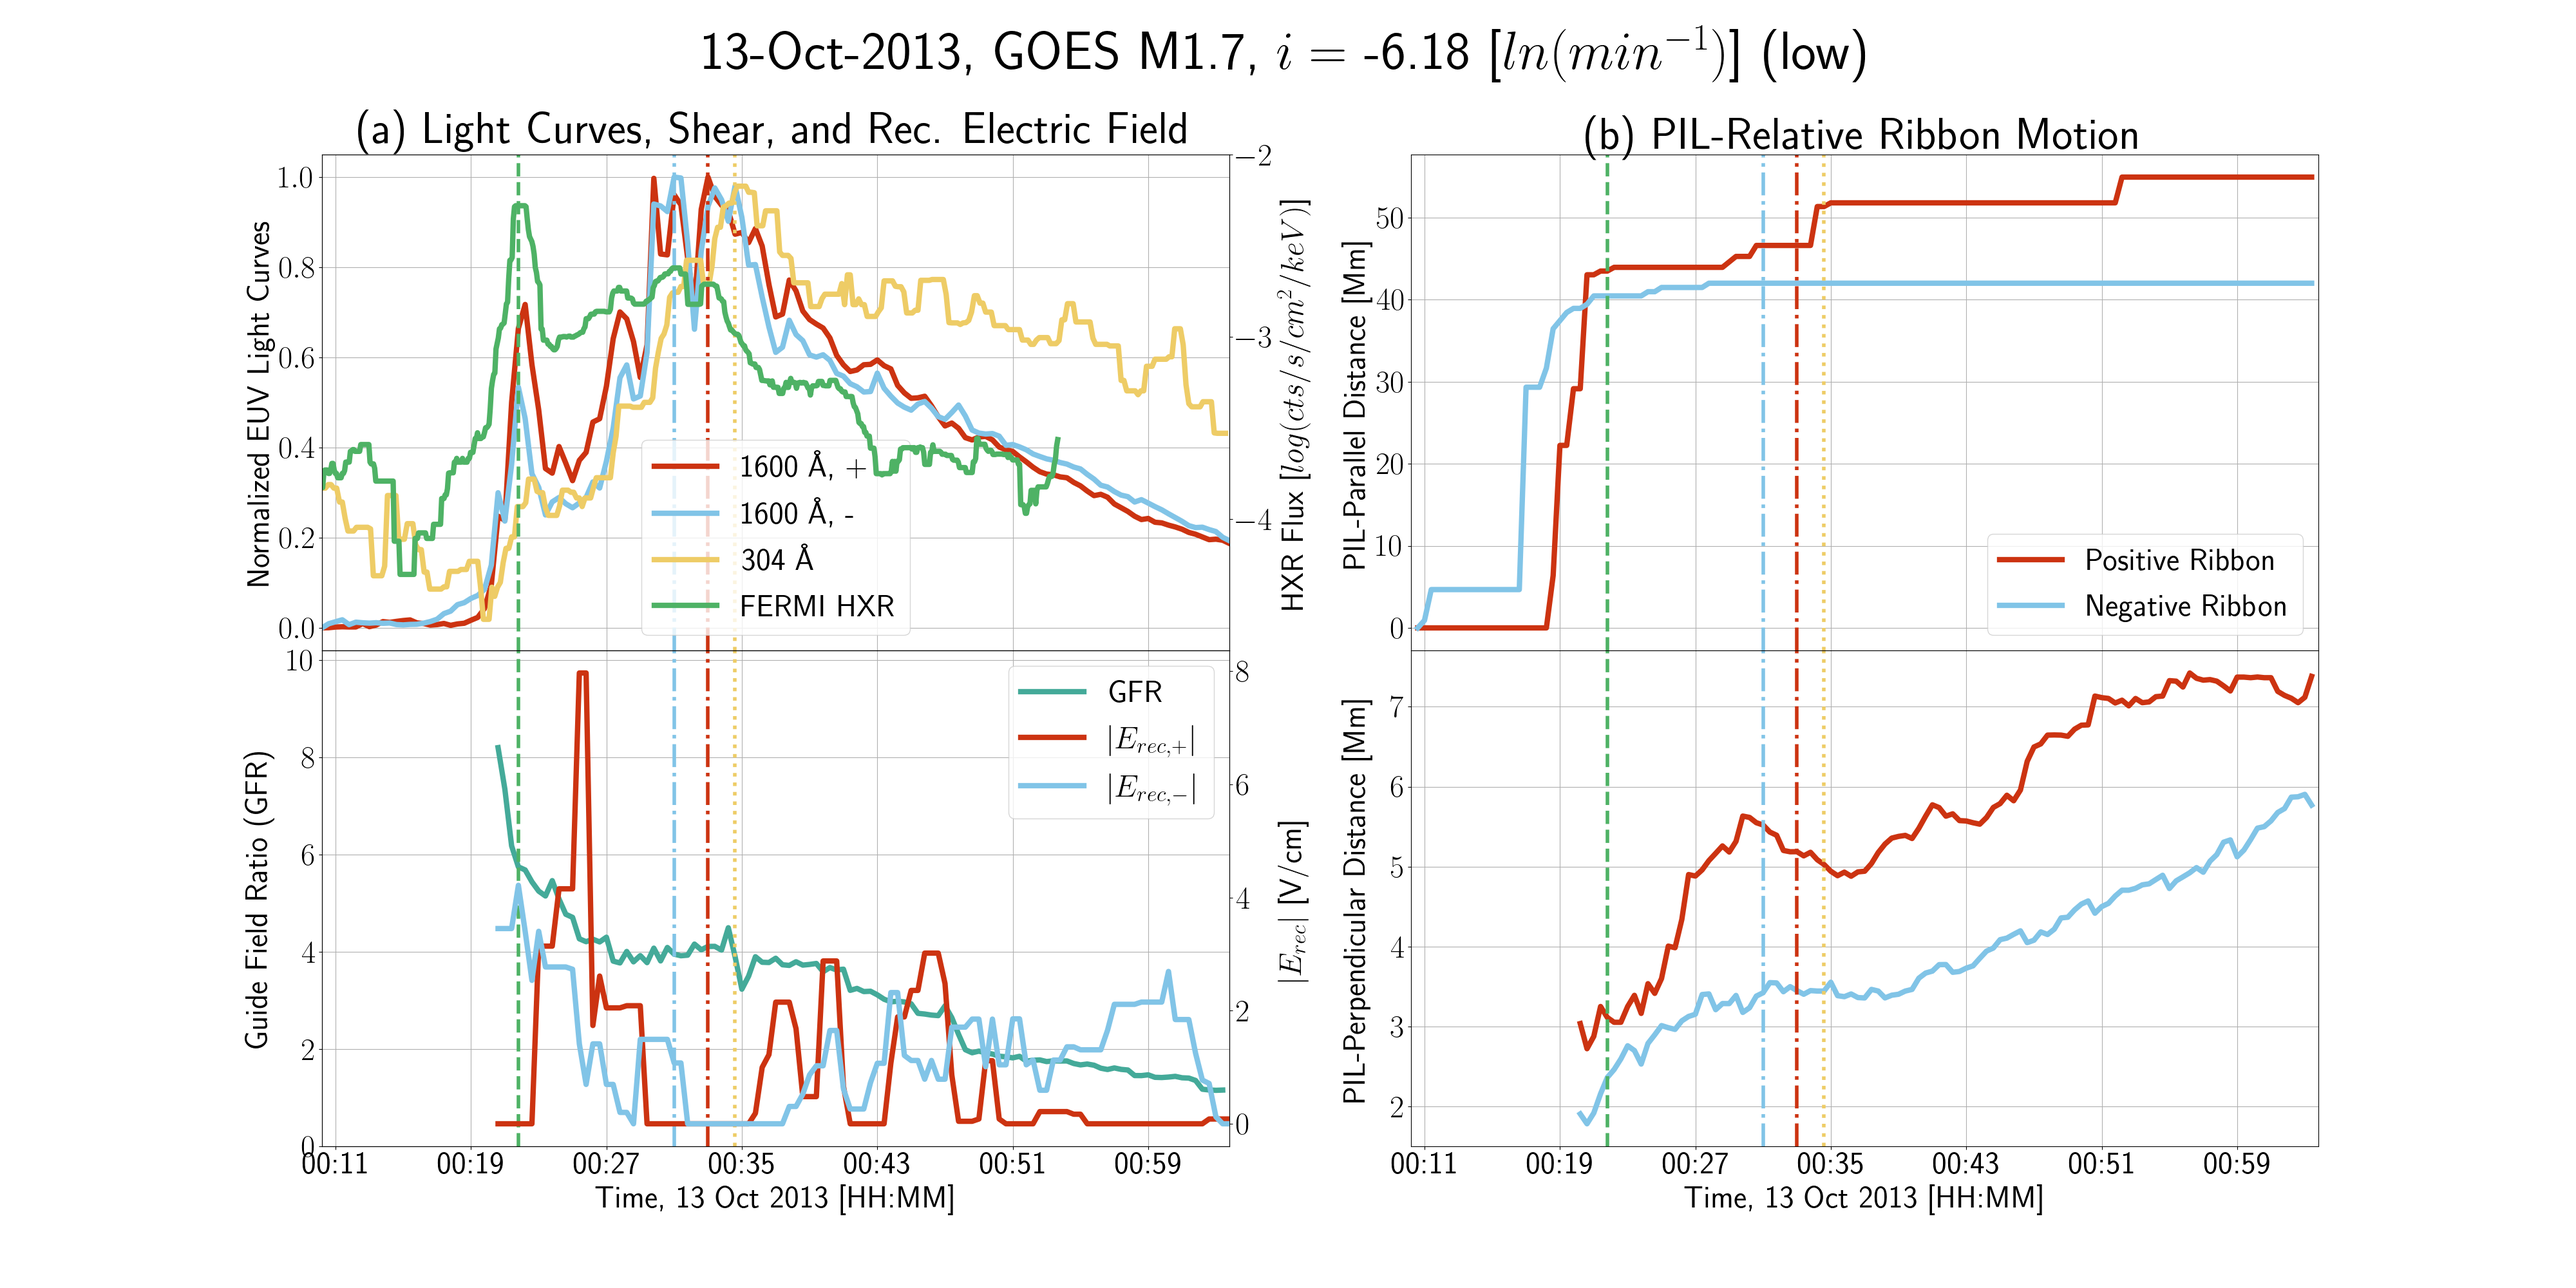
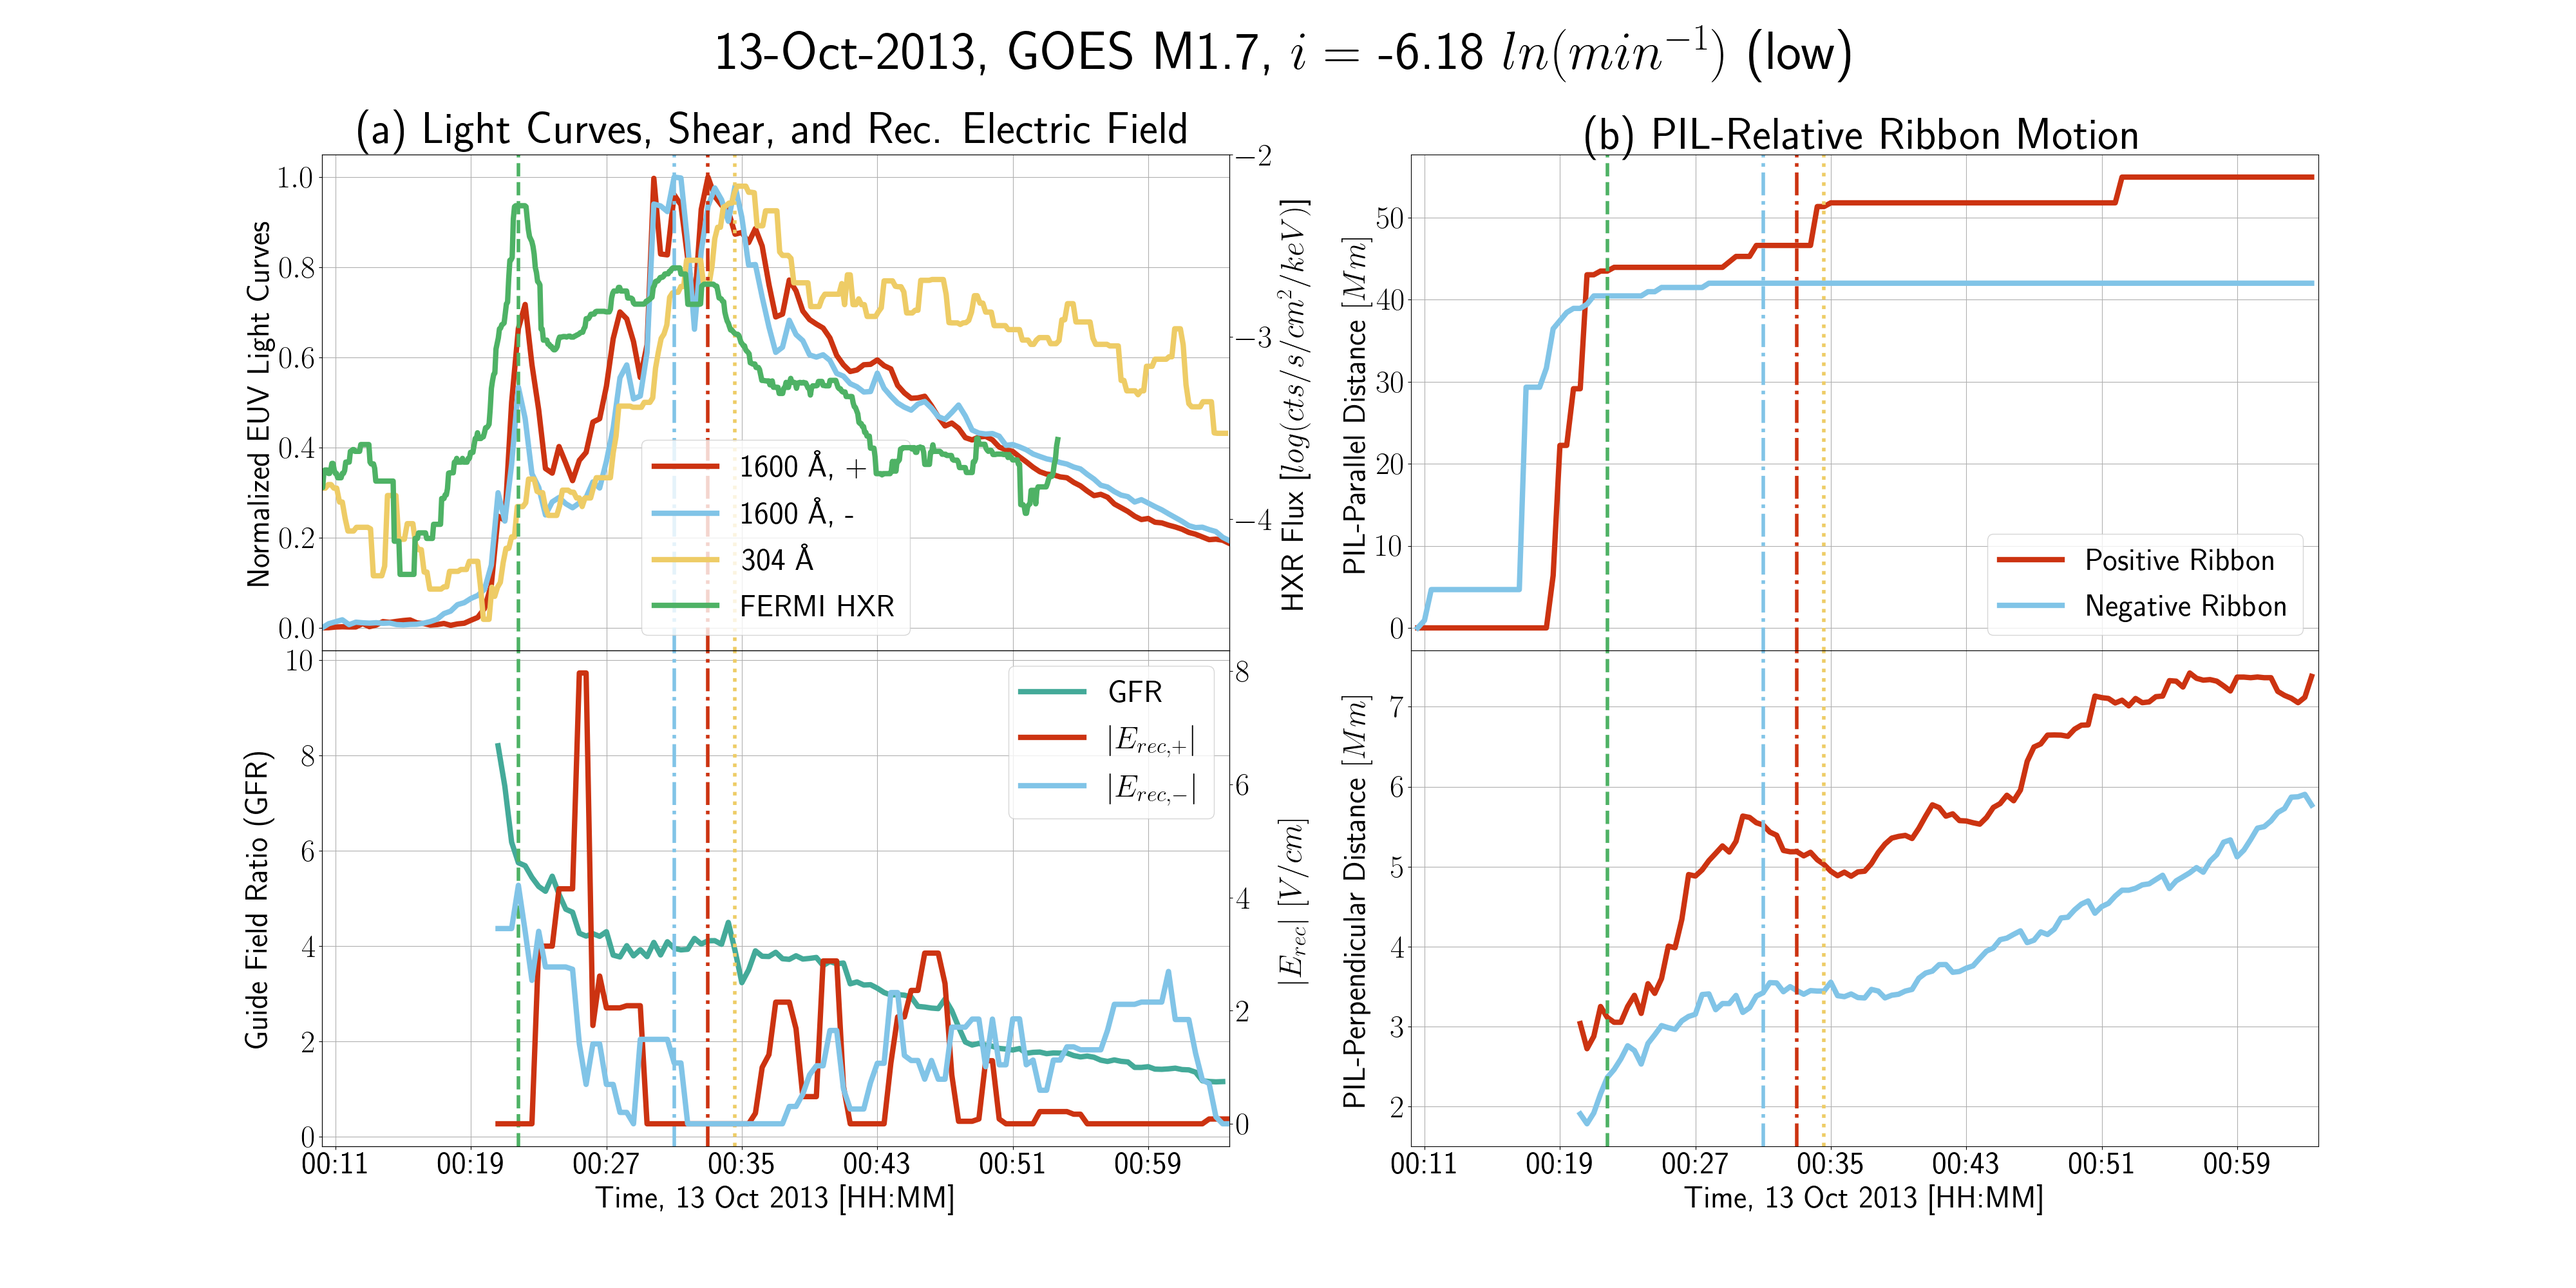
final fourpanel modification

diff --git a/fl_funcs.py b/fl_funcs.py
@@ -4369,7 +4369,7 @@ def plt_fourpanel(times, right_gfr, left_gfr, flnum, dt1600, time304,
     max1600pos = np.argmax(normpos1600)
     max1600neg = np.argmax(normneg1600)
     
-    fermi = np.log10(cspec_hxr_sum[low_hxr:high_hxr,0]/275.0)
+    fermi = np.log10(cspec_hxr_sum[low_hxr:high_hxr,0]/275.0)#divide by wavelength band for consistency with OSPEX; file gives cts/s/cm^2, this will divide by wavelength range after summing over all
     fermitimessel = fermitimes[low_hxr:high_hxr]
     fermidf = pd.DataFrame({'hxr':fermi},columns=['hxr'])
     fermidf_fix = fermidf.fillna(method='ffill').fillna(method='bfill')
@@ -4445,7 +4445,7 @@ def plt_fourpanel(times, right_gfr, left_gfr, flnum, dt1600, time304,
     ax2.set_ylabel('Guide Field Ratio (GFR)', fontsize=35)
     #ax2.set_title(r'(b) Magnetic Shear and $|E_{rec}|$',
     #              fontsize=50)
-    ax2.set_ylim([0, np.nanmax(GFR[gfr_trans:])+2])
+    ax2.set_ylim([-0.2, np.nanmax(GFR[gfr_trans:])+2])
     ax2.grid()
 
     ax2.set_xlim([dt1600[0], dt1600[-1]])
@@ -4461,7 +4461,7 @@ def plt_fourpanel(times, right_gfr, left_gfr, flnum, dt1600, time304,
 
     ax2_0.set_xlim([dt1600[0], dt1600[-1]])
 
-    ax2_0.set_ylabel(r'$|E_{rec}|$ [V/cm]',
+    ax2_0.set_ylabel(r'$|E_{rec}|$ $[V/cm]$',
                      fontsize=35)
 
 
@@ -4490,7 +4490,7 @@ def plt_fourpanel(times, right_gfr, left_gfr, flnum, dt1600, time304,
 
     ax3.grid()
     ax3.set_ylabel(
-        'PIL-Parallel Distance [Mm]', fontsize=35)
+        r'PIL-Parallel Distance $[Mm]$', fontsize=35)
     ax3.set_title('(b) PIL-Relative Ribbon Motion',
                   fontsize=50)
 
@@ -4513,7 +4513,7 @@ def plt_fourpanel(times, right_gfr, left_gfr, flnum, dt1600, time304,
              c='#81C4E7', linewidth=6, label = 'Negative Ribbon')
 
     ax4.set_ylabel(
-        'PIL-Perpendicular Distance [Mm]', fontsize=35)
+        r'PIL-Perpendicular Distance $[Mm]$', fontsize=35)
     #ax4.set_title('(d) Distance Perpendicular to PIL',
     #              fontsize=50)
 
@@ -4576,7 +4576,7 @@ def plt_fourpanel(times, right_gfr, left_gfr, flnum, dt1600, time304,
     
    
     fig.suptitle(day+'-'+mo+'-'+year+', GOES '+xcl+str(xclnum)+', '+
-                 r'$i =$ '+str(imp)+r' [$ln(min^{-1})$] ('+level+')',fontsize=60)
+                 r'$i =$ '+str(imp)+r' $ln(min^{-1})$ ('+level+')',fontsize=60)
     
     plt.setp(ax1.get_xticklabels(), visible=False)
     plt.setp(ax3.get_xticklabels(), visible=False)
